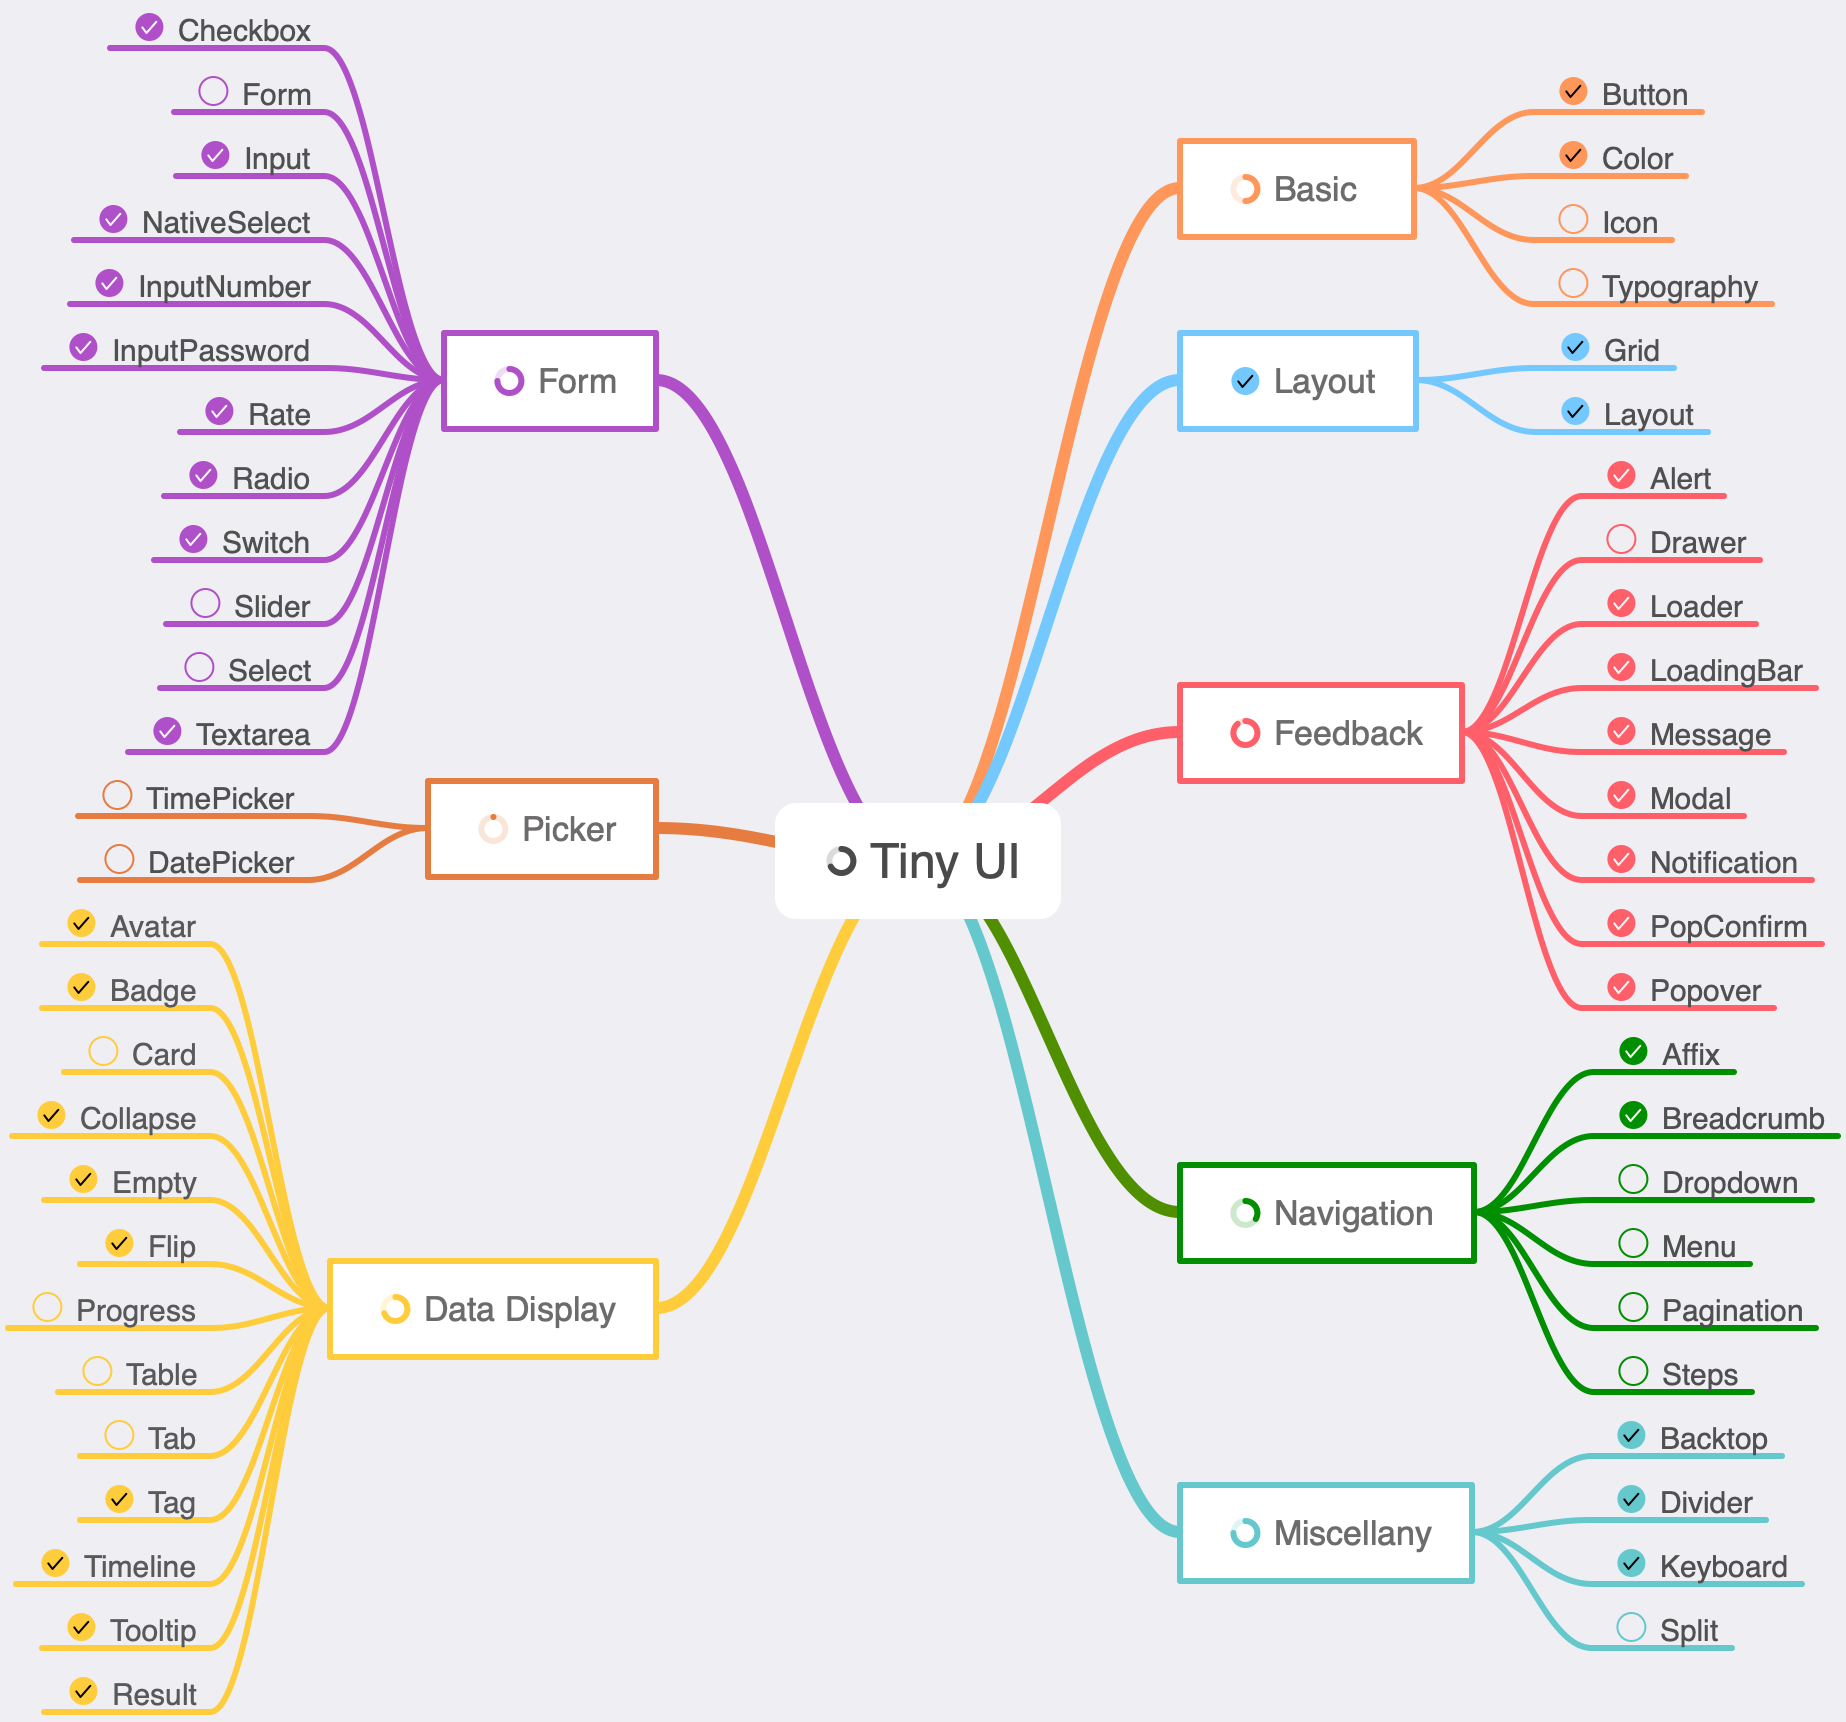
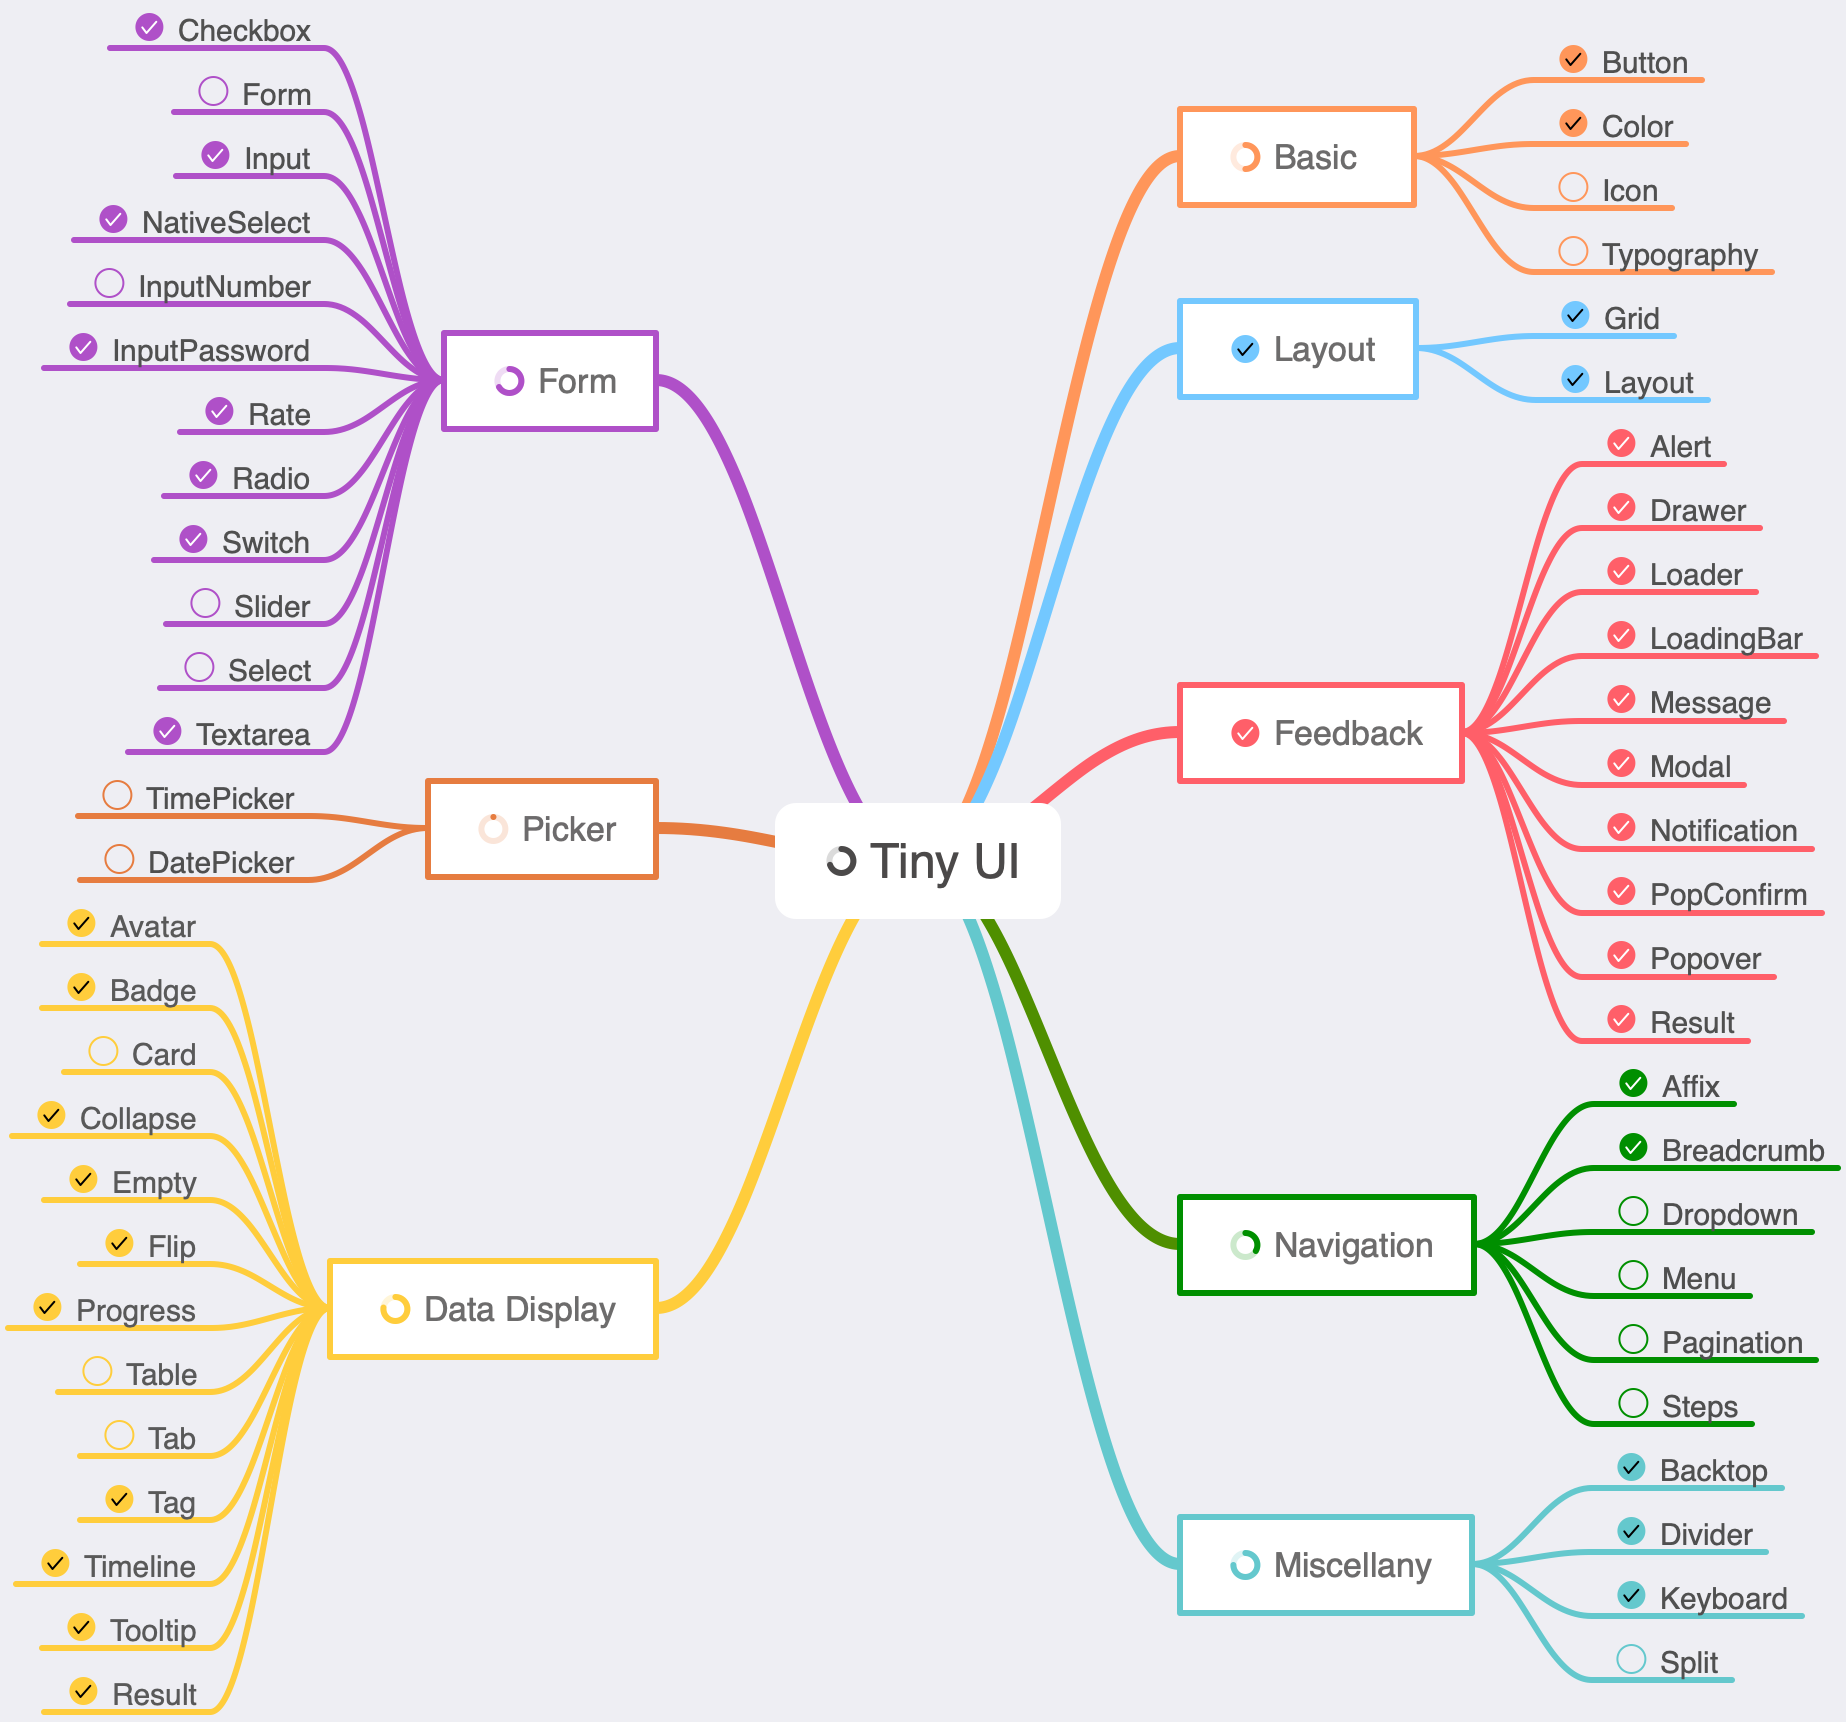
docs(lib): drawer

diff --git a/site/src/routers.tsx b/site/src/routers.tsx
@@ -200,6 +200,11 @@ export const COMPONENT_MENU: RouterItem[] = [
         component: lazy(() => import('../../components/alert/index.md')),
       },
       {
+        title: 'Drawer',
+        route: 'drawer',
+        component: lazy(() => import('../../components/drawer/index.md')),
+      },
+      {
         title: 'Loader',
         route: 'loader',
         component: lazy(() => import('../../components/loader/index.md')),

diff --git a/components/drawer/index.md b/components/drawer/index.md
@@ -1,0 +1,45 @@
+import Basic from './demo/basic.md'
+import Placement from './demo/placement.md'
+
+# Drawer
+
+A panel which slides in from the edge of the screen.
+
+## Scenario
+
+A Drawer is a panel that is typically overlaid on top of a page and slides in from the side. It contains a set of information or actions. Since the user can interact with the Drawer without leaving the current page, tasks can be achieved more efficiently within the same context.
+
+- Use a Form to create or edit a set of information.
+- Processing sub tasks. When sub tasks are too heavy for a Popover and we still want to keep the subtasks in the context of the main task, Drawer comes very handy.
+- When the same Form is needed in multiple places.
+
+## Usage
+
+```jsx
+import { Drawer } from 'tiny-ui';
+```
+
+## Examples
+
+<layout>
+  <column>
+    <Basic/>
+  </column>
+  <column>
+    <Placement/>
+  </column>
+</layout>
+
+## API
+
+| Property          | Description                                           | Type                                                      | Default   |
+| ----------------- | ----------------------------------------------------- | --------------------------------------------------------- | --------- |
+| placement         | The placement of the Drawer                           | enum: `top` &#124; `bottom` &#124; `left` &#124; `right`  | `right`   |
+| size              | Drawer dialog width or height                         | number &#124; string                                      | 256       |
+| visible           | Whether the Drawer dialog is visible or not           | boolean                                                   | -         |
+| header            | Drawer header                                         | ReactNode                                                 | -         | 
+| footer            | Drawer footer                                         | ReactNode                                                 | -         | 
+| closable          | Display a close button                                | boolean                                                   | `true`    | 
+| unmountOnClose    | Whether unmount child components when closing drawer  | boolean                                                   | `true`    | 
+| style	            | style object of container	object                      | CSSProperties                                             | -         |
+| className	        | className of container                                | string                                                    | -         |

diff --git a/components/drawer/demo/placement.md b/components/drawer/demo/placement.md
@@ -1,0 +1,49 @@
+<demo>
+
+### Placement
+
+The Drawer can appear from any edge of the screen.
+
+```jsx live
+() => {
+const { Group } = Radio;
+  
+  const Wrapper = () => {
+    const [visible, setVisible] = React.useState(false);
+    const [placement, setPlacement] = React.useState('left');
+    
+    return(
+      <>
+        <Group value={placement} onChange={(val) => setPlacement(val)}>
+          <Radio value="top">Top</Radio>
+          <Radio value="bottom">Bottom</Radio>
+          <Radio value="left">Left</Radio>
+          <Radio value="right">Right</Radio>
+        </Group>
+        <br/>
+        <br/>
+
+        <Button color="primary" onClick={() => setVisible(true)}>
+          Open
+        </Button>
+
+        <Drawer
+          header="Basic Drawer"
+          placement={placement}
+          onClose={() => setVisible(false)}
+          visible={visible}>
+            <div>Some contents...</div>
+            <div>Some contents...</div>
+            <div>Some contents...</div>
+        </Drawer>
+      </>
+    );
+  };
+  
+  return (
+    <Wrapper />
+  );
+};
+```
+
+</demo>

diff --git a/components/drawer/demo/basic.md b/components/drawer/demo/basic.md
@@ -1,0 +1,30 @@
+<demo>
+
+### Basic
+
+Basic drawer.
+
+```jsx live
+() => {
+  const [visible, setVisible] = React.useState(false);
+
+  return (
+    <div>
+      <Button color="primary" onClick={() => setVisible(true)}>
+        Open
+      </Button>
+      <Drawer
+        header="Basic Drawer"
+        placement="right"
+        onClose={() => setVisible(false)}
+        visible={visible}>
+          <div>Some contents...</div>
+          <div>Some contents...</div>
+          <div>Some contents...</div>
+      </Drawer>
+    </div>
+  );
+};
+```
+
+</demo>
